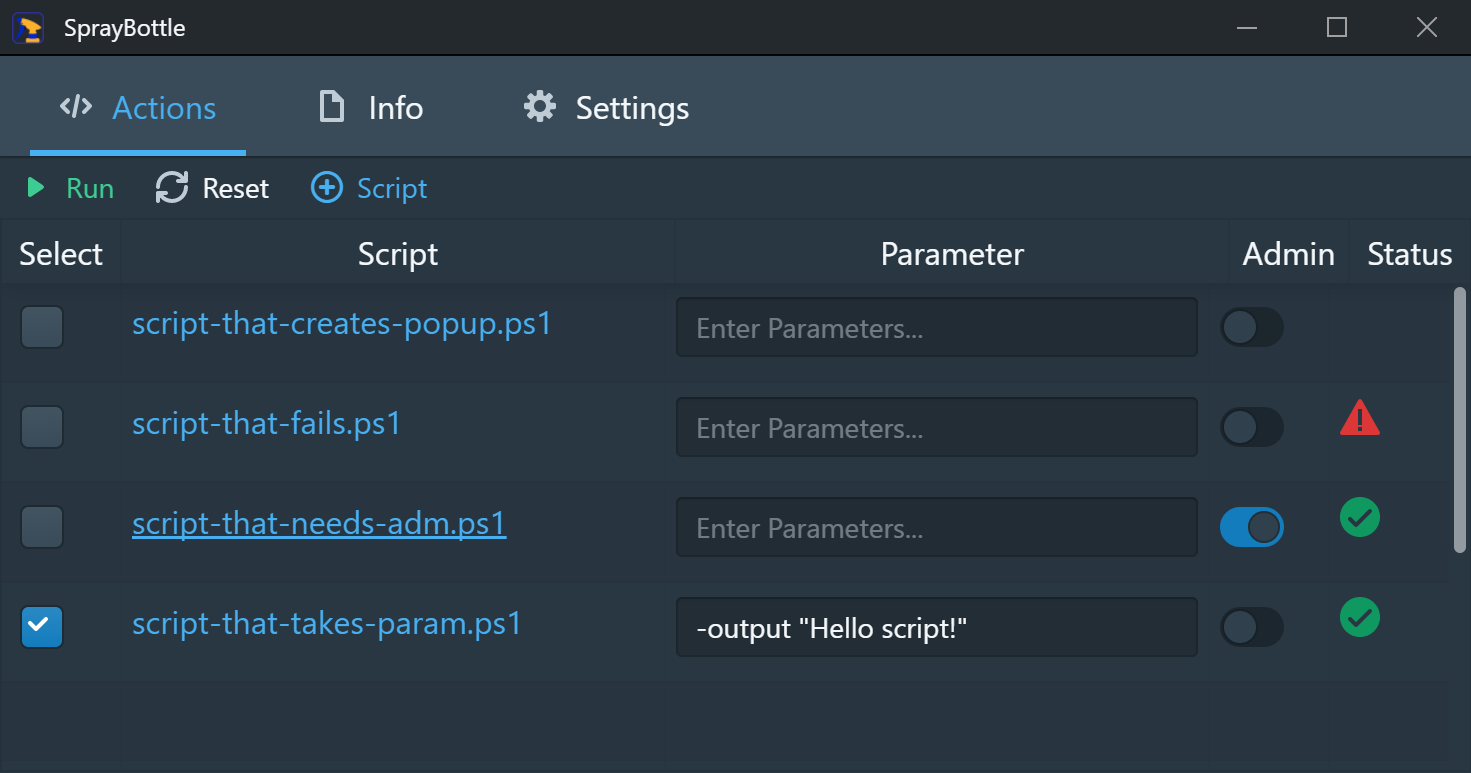
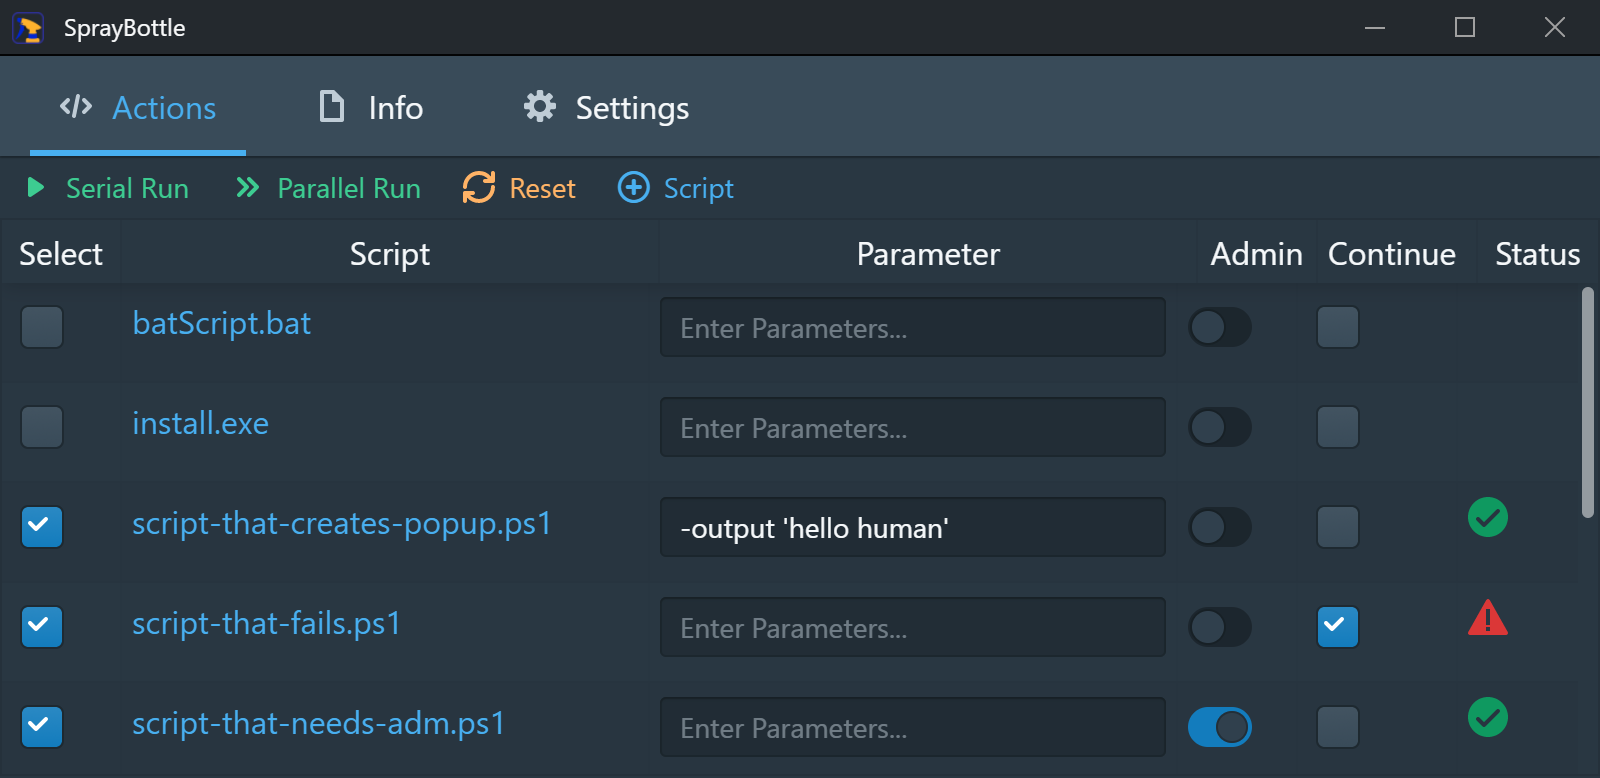
Update for Ver 0.5

diff --git a/README.md b/README.md
@@ -16,17 +16,17 @@ The aim of this app, is to provide a GUI for admins to easily run scripts, and d
 - [x] Admin mode with optional parameters and console
 - [x] Optional launching scripts with admin rights
 - [x] Info section for storing documentation
+- [x] Support of Non Powershell Scripts
 
 ### Planned Features
 - [ ] Cross Platform Support Linux and OSX
-- [ ] Support of Non Powershell Scripts
 - [ ] Saved sets of tasks
 - [ ] Pushing remote cmds
 
 For more details see the: [Road Map](https://github.com/jooshkins/spraybottle/projects/1)
 
 ### Current Limitations:
-* Only works with Windows and PowerShell scripts. 
+* Only works with Windows. 
 
 
 ### Built with:
